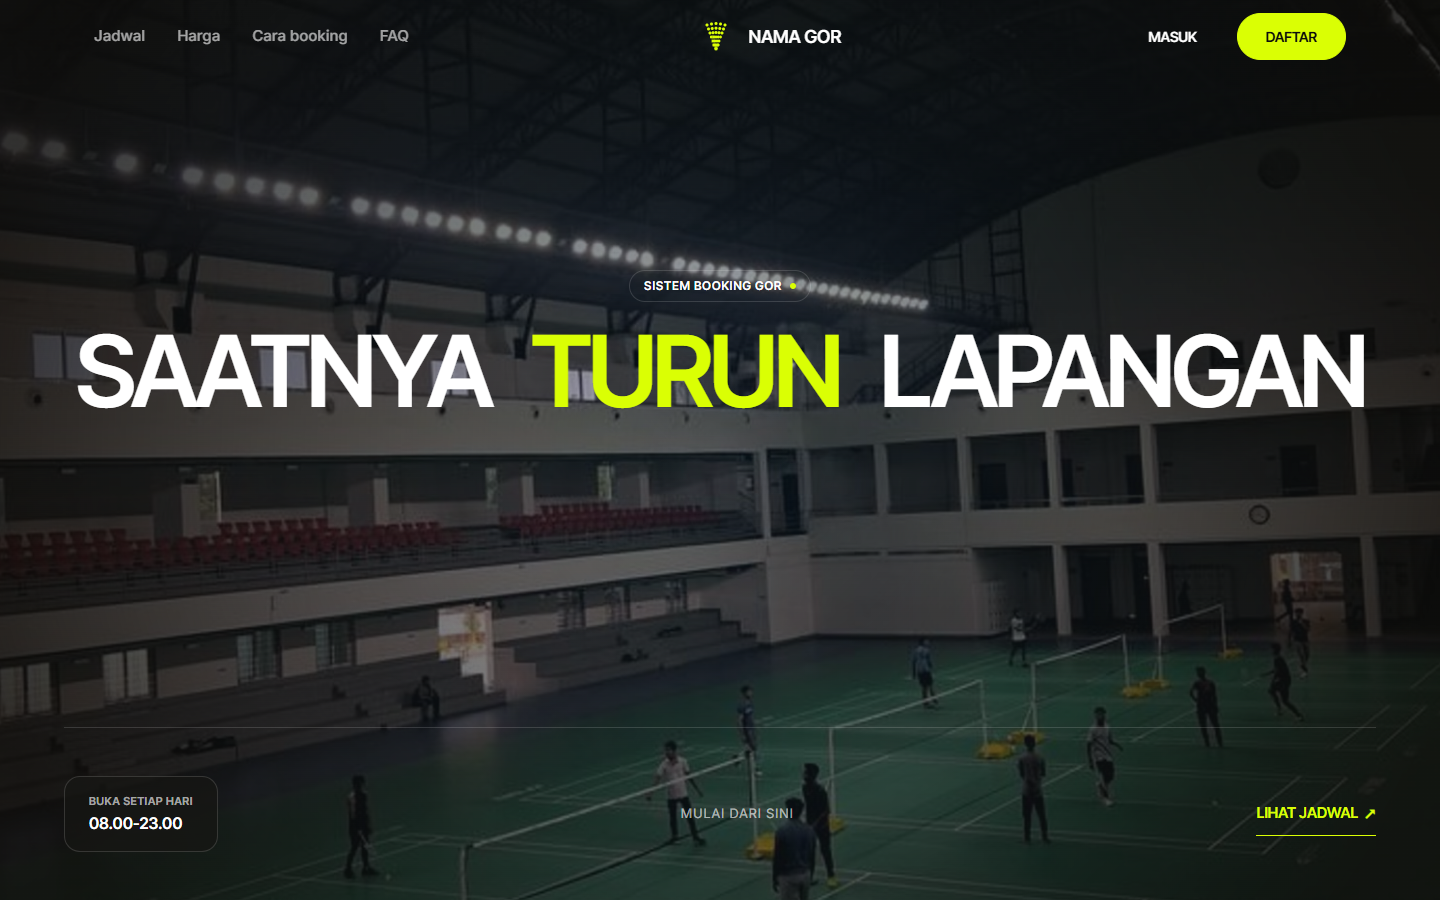
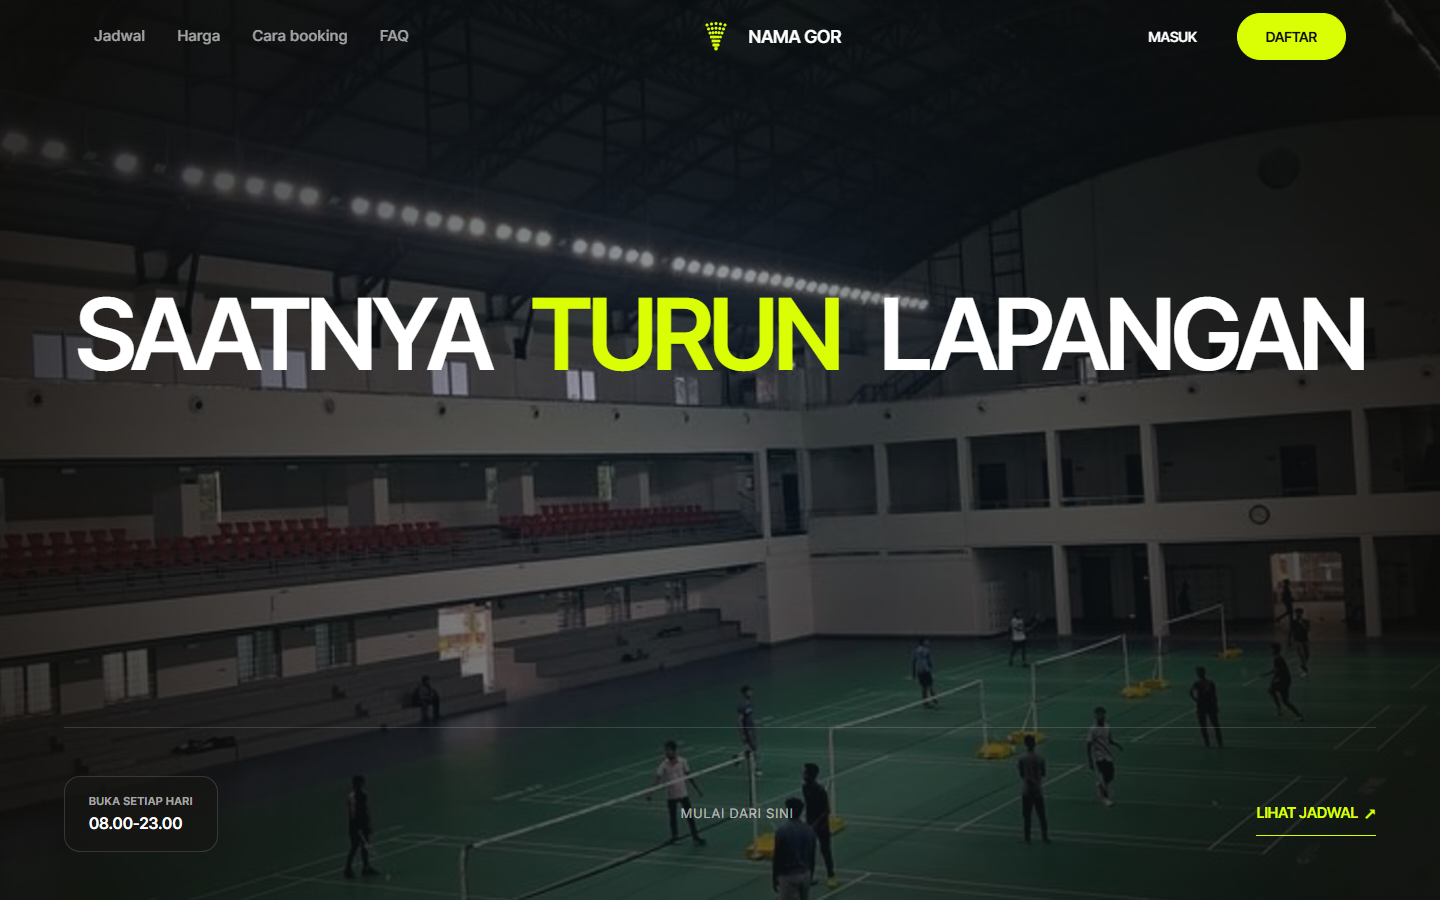
style: hapus pil penanda 'SISTEM BOOKING GOR' di hero section

Changed region(s): [[0.375, 0.3111, 0.9688, 0.4667], [0.0312, 0.3111, 0.3438, 0.4667]]

diff --git a/resources/css/components.css b/resources/css/components.css
@@ -693,7 +693,7 @@ details[open] .faq-icon {
     align-items: baseline;
     gap: clamp(1rem, 2.8vw, 3.2rem);
     width: 100%;
-    margin-top: var(--spasi-3);
+    margin-top: 0;
     margin-bottom: 0;
 }
 

diff --git a/resources/views/landing.blade.php b/resources/views/landing.blade.php
@@ -13,8 +13,6 @@
 
     <div class="kontainer hero-content">
         <div class="hero-main-block">
-            <x-penanda teks="SISTEM BOOKING GOR" />
-            
             {{-- Satu h1 tunggal di halaman --}}
             <h1 class="hero-judul">
                 <span>Saatnya</span>
